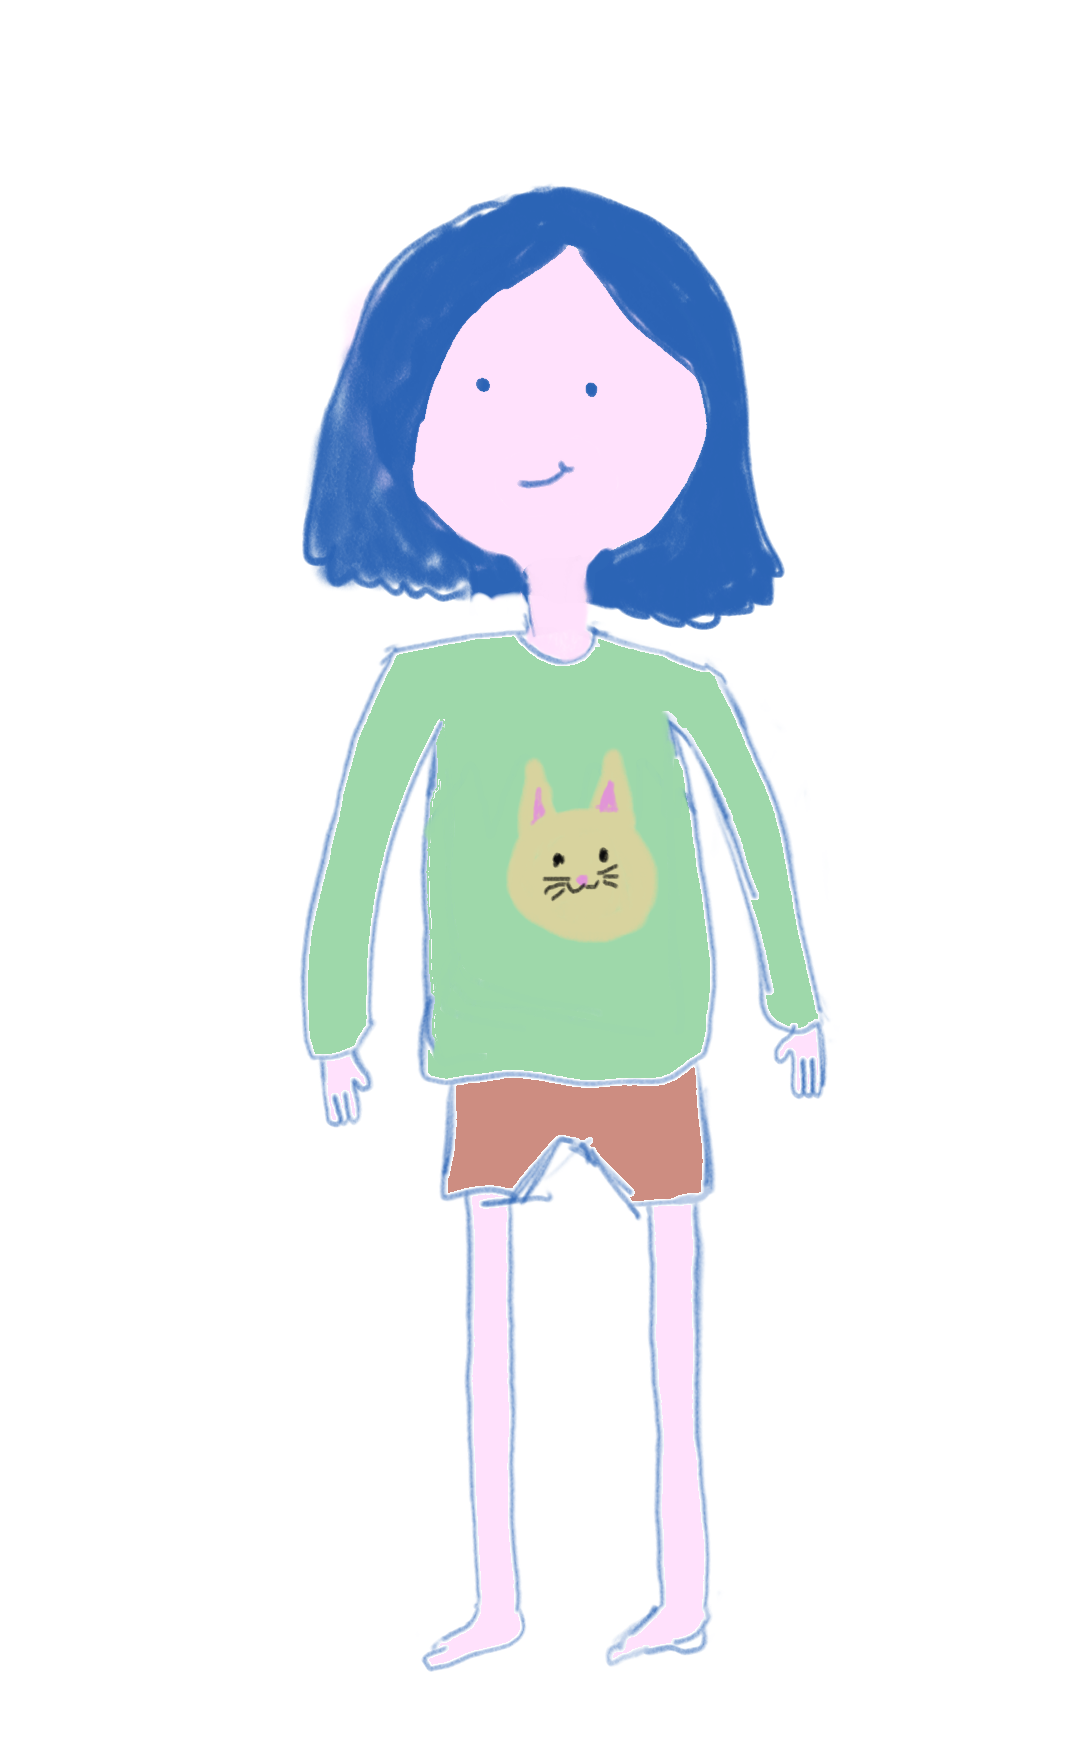
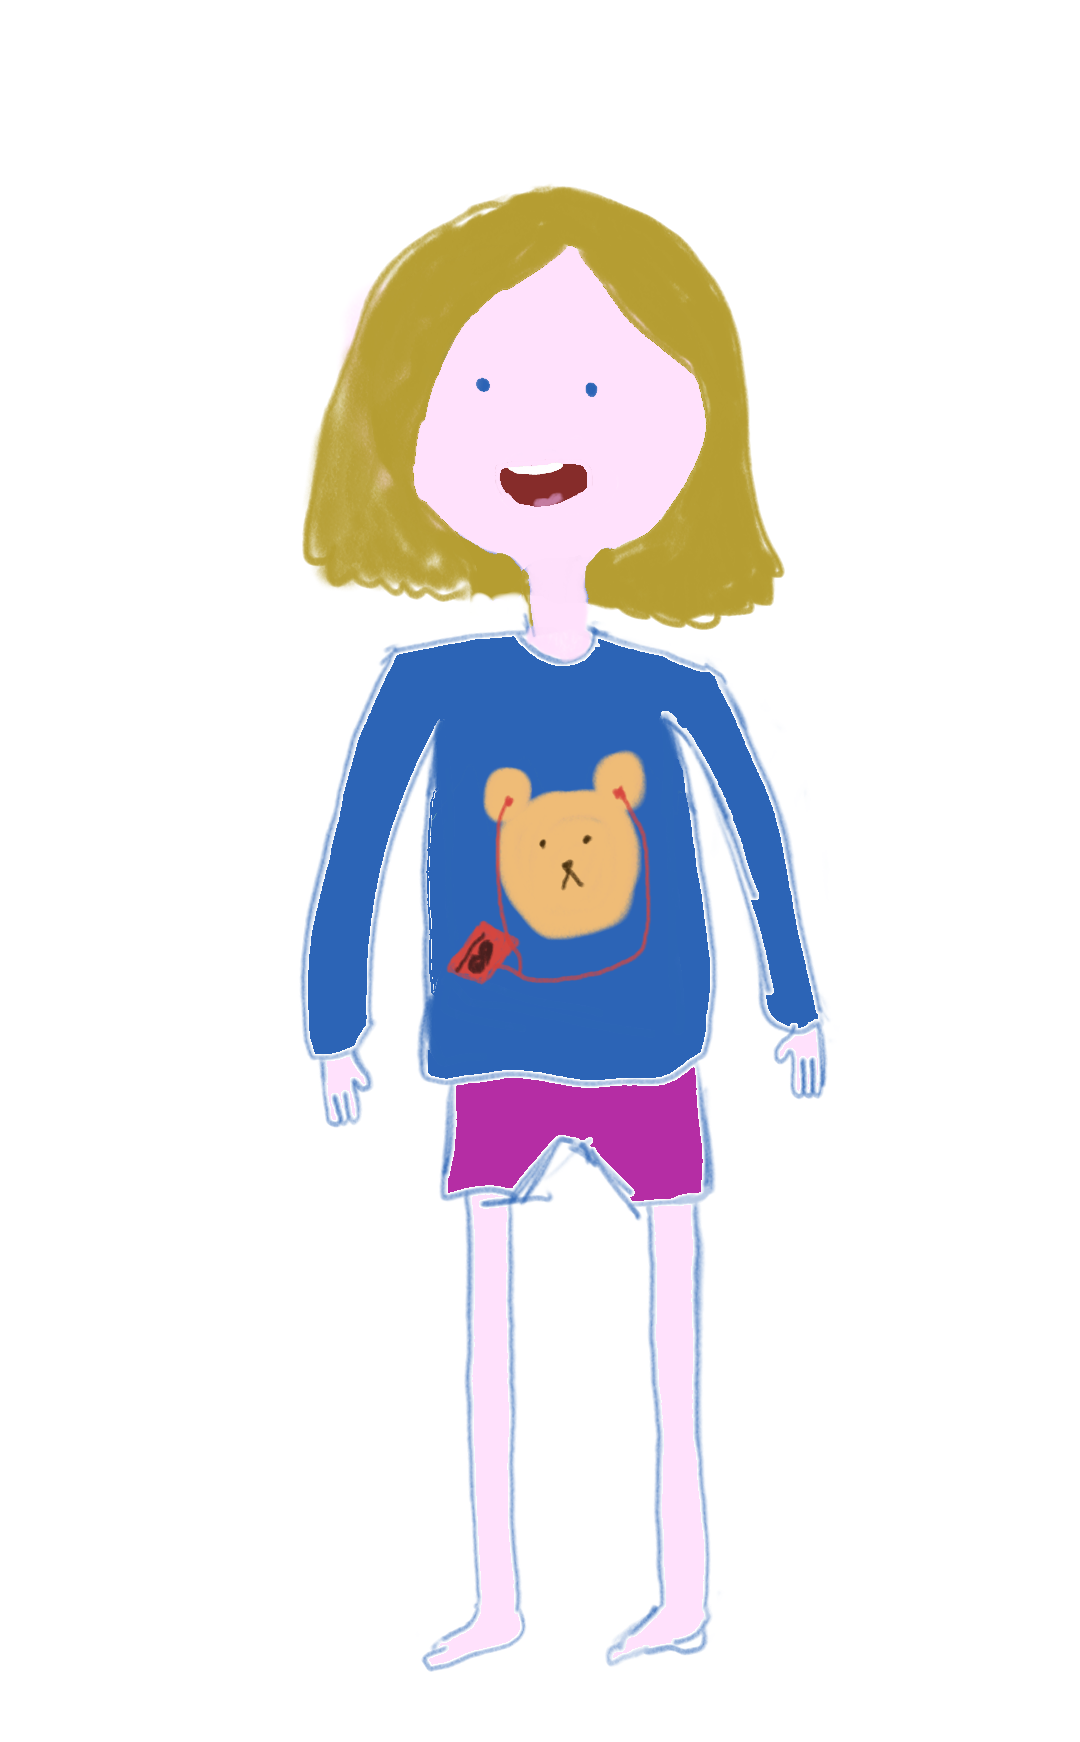
made character generation work

Changed region(s): [[0.275, 0.093, 0.7639, 0.713]]

diff --git a/main.py b/main.py
@@ -7,11 +7,11 @@ from kivy.core.window import Window
 from kivy.uix.slider import Slider
 from kivy.clock import Clock
 from datetime import timedelta
-from kivy.uix.image import Image
+from kivy.uix.image import Image, AsyncImage
 from kivy.uix.recycleview.views import RecycleDataViewBehavior
 from kivy.properties import StringProperty
 import os
-from img_combine import combine_images, body_parts
+from img_combine import combine_images, body_parts, images_count
 
 ########################  TimerWindow  ##########################
 
@@ -24,15 +24,28 @@ class TimerWindow(ModalView):
 ########################  CharacterWindow  ##########################
 
 class CharacterWindow(ModalView):
-    current_images = {'hair': 0, 'face': 0, 'clothes': 0, 'accessories': 0}
+    current_images = {'clothe': 1, 'hair': 1, 'expression': 1}
 
     def load_image(self):
-        image_path = combine_images(body_parts(1,1,1))
+        previous_image_path = 'images/character/character.png'
+        if os.path.exists(previous_image_path):
+            os.remove(previous_image_path)
+
+        image_path = combine_images(body_parts(self.current_images['clothe'],
+                                               self.current_images['hair'],
+                                               self.current_images['expression']))
+        
+        print('load_image called')
         return image_path
     
     def load_next_image(self, body_part):
-        pass
-
+        print(f'pressed next {body_part} button')
+        image_count = images_count(body_part)
+        print(f'current: {self.current_images[body_part]}')
+        self.current_images[body_part] = (self.current_images[body_part] % image_count) + 1
+        print(f'now: {self.current_images[body_part]}')
+        self.ids.character_image.source = self.load_image()
+        self.ids.character_image.reload()
 
 class ImageButton(RecycleDataViewBehavior, Button):
     source = StringProperty('')

diff --git a/img_combine.py b/img_combine.py
@@ -22,7 +22,8 @@ def body_parts(selected_clothe, selected_hair, selected_expression):
     return image_paths
 
 
-def images_count(folder_path):
+def images_count(body_part):
+    folder_path = f'images/character/{body_part}s'
     if not os.path.exists(folder_path):
         print(f"The folder {folder_path} does not exist.")
         return
